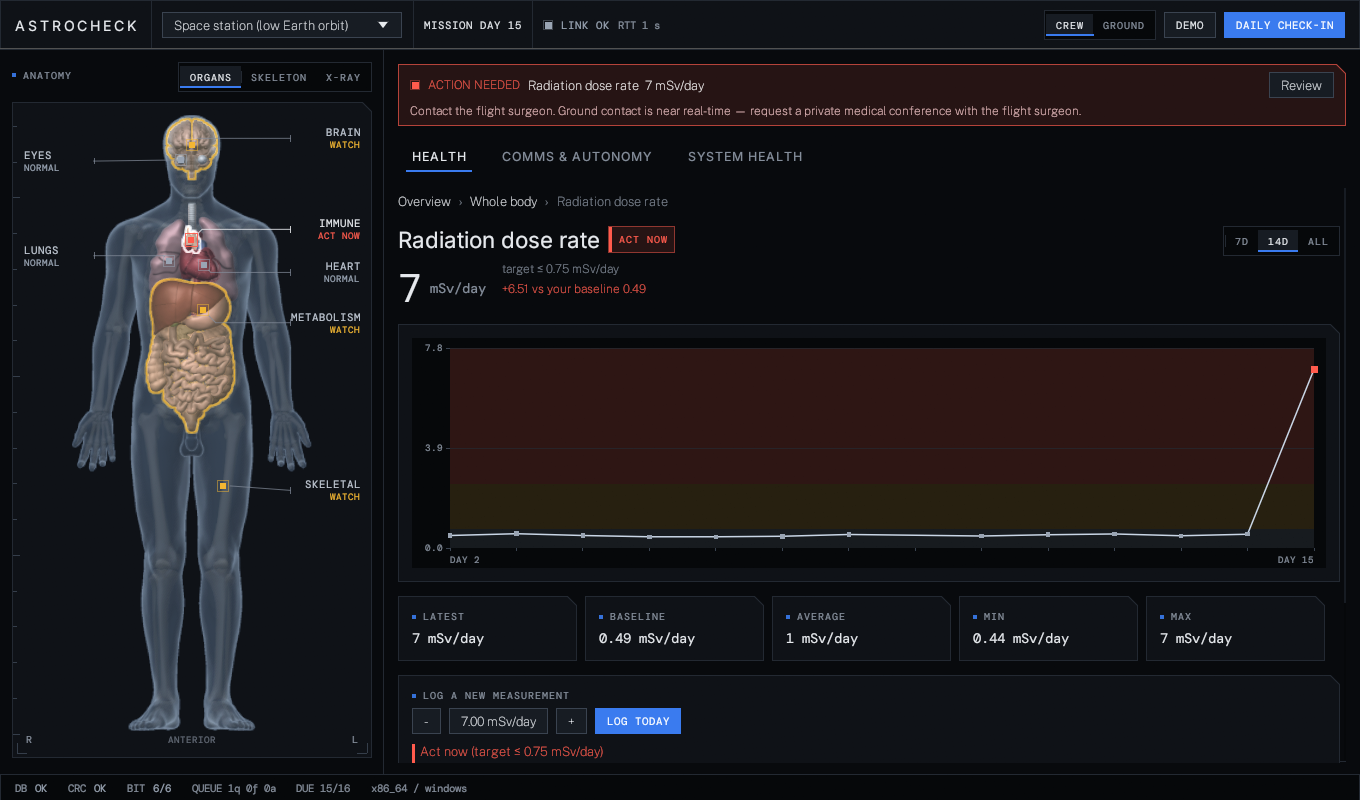
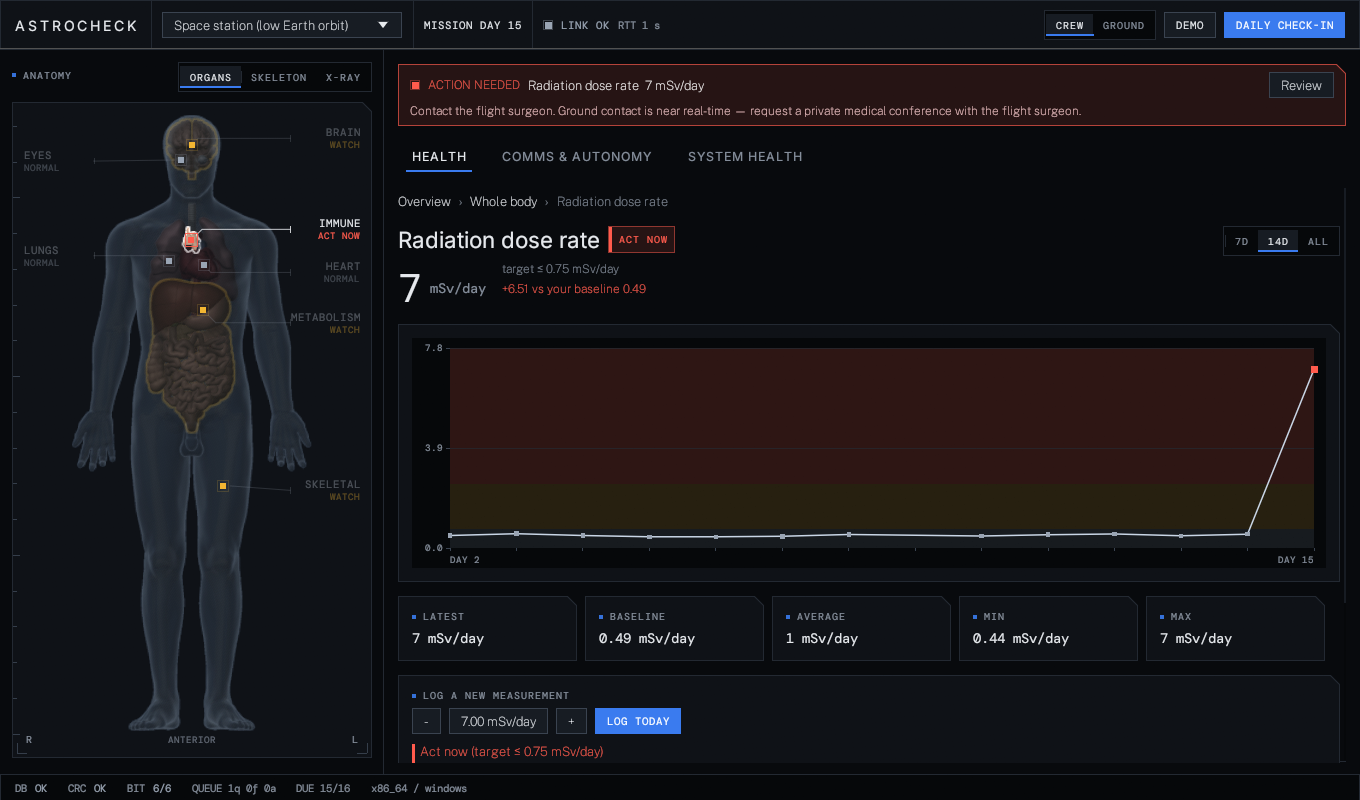
ui: anatomy dims everything but the selected body system
With a selection the other organs, bones and the skin fade to about 30 %
light (animated, 0.18 s); a hovered system comes half back. The selected
layer is drawn on top (bones over organs, an organ over the skeleton).
Selection and hover outlines are 1 texel instead of 2; status outlines of
the other systems and their callouts step back too.

Changed region(s): [[0.0, 0.125, 0.2779, 0.9375], [0.0, 0.1875, 0.0618, 0.2188], [0.2471, 0.1562, 0.2779, 0.1875]]

diff --git a/ui/crates/ui-gui/src/figure.rs b/ui/crates/ui-gui/src/figure.rs
@@ -36,7 +36,10 @@ struct Outline {
     /// the part that sets the pulse (the largest one), its index
     lead: usize,
     cov: Vec<u8>,
+    /// status outline (2 texels)
     tex: Option<TextureHandle>,
+    /// selection / hover outline (1 texel): the dimmed surroundings already make the organ stand out
+    thin: Option<TextureHandle>,
 }
 
 struct Part {
@@ -146,7 +149,7 @@ impl Figure {
         let mut outlines: Vec<Outline> = vec![];
         for p in parts.iter().filter(|p| p.s.layer == 2 && p.s.hit) {
             if !outlines.iter().any(|o| o.sys == p.s.sys) {
-                outlines.push(Outline { sys: p.s.sys, origin: p.origin(), w: 0, h: 0, lead: 0, cov: vec![], tex: None });
+                outlines.push(Outline { sys: p.s.sys, origin: p.origin(), w: 0, h: 0, lead: 0, cov: vec![], tex: None, thin: None });
             }
         }
         for o in outlines.iter_mut() {
@@ -197,9 +200,9 @@ impl Figure {
             p.gpu = Some(Gpu { main: load("main", main), alt: load("alt", alt), mask });
         }
         for o in self.outlines.iter_mut() {
-            let grown = dilate(&o.cov, o.w, o.h, 2);
-            let edge: Vec<Color32> = grown.iter().zip(&o.cov).map(|(&g, &c)| white_a(g.saturating_sub(c))).collect();
-            o.tex = Some(ctx.load_texture(format!("anatomy-outline-{}", o.sys), ColorImage { size: [o.w, o.h], pixels: edge }, opts));
+            let edge = |r: usize| -> Vec<Color32> { dilate(&o.cov, o.w, o.h, r).iter().zip(&o.cov).map(|(&g, &c)| white_a(g.saturating_sub(c))).collect() };
+            o.tex = Some(ctx.load_texture(format!("anatomy-outline-{}", o.sys), ColorImage { size: [o.w, o.h], pixels: edge(2) }, opts));
+            o.thin = Some(ctx.load_texture(format!("anatomy-outline-thin-{}", o.sys), ColorImage { size: [o.w, o.h], pixels: edge(1) }, opts));
         }
     }
 
@@ -237,10 +240,14 @@ impl Figure {
         let breathe = if animate { (0.5 + 0.5 * (time * std::f64::consts::TAU / 4.2).sin()) as f32 } else { 0.0 };
         let alert = if animate { (0.5 + 0.5 * (time * std::f64::consts::TAU / 1.4).sin()) as f32 } else { 0.5 };
 
-        // drawing order for the mode: skin body, the quiet layer, the emphasised layer, then the skin glass
-        let order: [u8; 2] = match mode {
-            Mode::Organs => [1, 2],
-            Mode::Skeleton | Mode::XRay => [2, 1],
+        // drawing order for the mode: skin body, the quiet layer, the emphasised layer, then the skin glass.
+        // A selection in the quiet layer (bones while looking at organs, an organ in the skeleton view) goes on top.
+        let sel_layer = self.parts.iter().filter(|p| p.s.layer != 0 && p.s.sys == selected).map(|p| p.s.layer).max();
+        let order: [u8; 2] = match (sel_layer, mode) {
+            (Some(1), _) => [2, 1],
+            (Some(_), _) => [1, 2],
+            (None, Mode::Organs) => [1, 2],
+            (None, _) => [2, 1],
         };
         let alpha_of = |p: &Part, sel: bool, hov: bool| -> f32 {
             let mut a = Self::layer_alpha(p.s.layer, mode);
@@ -282,6 +289,27 @@ impl Figure {
             ui.ctx().set_cursor_icon(egui::CursorIcon::PointingHand);
         }
 
+        // focus 1 = full light; with a selection the other systems fade to DIM (a hovered one comes half back)
+        const DIM: f32 = 0.28;
+        let ctx = ui.ctx().clone();
+        let any = ctx.animate_bool_with_time(egui::Id::new("figure-any-selected"), !selected.is_empty(), 0.18);
+        let mut focus: Vec<(&'static str, f32)> = vec![];
+        for p in &self.parts {
+            if p.s.layer == 0 || focus.iter().any(|f| f.0 == p.s.sys) {
+                continue;
+            }
+            let target = if selected.is_empty() || p.s.sys == selected {
+                1.0
+            } else if hovered == Some(p.s.sys) {
+                0.65
+            } else {
+                0.0
+            };
+            focus.push((p.s.sys, ctx.animate_value_with_time(egui::Id::new(("figure-focus", p.s.sys)), target, 0.18)));
+        }
+        let focus_of = |sys: &str| focus.iter().find(|f| f.0 == sys).map_or(1.0, |f| f.1);
+        let light_of = |sys: &str| DIM + (1.0 - DIM) * focus_of(sys);
+
         // --- sprites
         let full = Rect::from_min_max(pos2(0.0, 0.0), pos2(1.0, 1.0));
         let place = |p: &Part| -> Rect {
@@ -296,10 +324,16 @@ impl Figure {
             Rect::from_center_size(to_screen(c), vec2(w * s * k, h * s * k))
         };
         let tint = |a: f32| white_a((a.clamp(0.0, 1.0) * 255.0) as u8);
+        // colour x k at opacity a (premultiplied)
+        let lit = |k: f32, a: f32| {
+            let (k, a) = (k.clamp(0.0, 1.0), a.clamp(0.0, 1.0));
+            let v = (k * a * 255.0 + 0.5) as u8;
+            Color32::from_rgba_premultiplied(v, v, v, (a * 255.0 + 0.5) as u8)
+        };
         let xray = mode == Mode::XRay;
         for p in self.parts.iter().filter(|p| p.s.layer == 0) {
             let g = p.gpu.as_ref().unwrap();
-            painter.image(g.main.id(), place(p), full, tint(if xray { 0.75 } else { 1.0 }));
+            painter.image(g.main.id(), place(p), full, lit(1.0 - 0.3 * any, if xray { 0.75 } else { 1.0 }));
         }
         for layer in order {
             for p in self.parts.iter().filter(|p| p.s.layer == layer) {
@@ -311,41 +345,43 @@ impl Figure {
                 }
                 let g = p.gpu.as_ref().unwrap();
                 let r = place(p);
-                painter.image(if xray { g.alt.id() } else { g.main.id() }, r, full, tint(a));
+                let k = light_of(p.s.sys);
+                painter.image(if xray { g.alt.id() } else { g.main.id() }, r, full, lit(k, a));
                 if let Some(m) = &g.mask {
                     // organs carry their status as a light tint; bones stay neutral (their marker shows it)
                     match status_of(p.s.sys) {
                         Status::Watch => {
-                            painter.image(m.id(), r, full, alpha(WARN, 0.12 * a));
+                            painter.image(m.id(), r, full, alpha(WARN, 0.12 * a * k));
                         }
                         Status::Act => {
-                            painter.image(m.id(), r, full, alpha(CRIT, (0.12 + 0.10 * alert) * a));
+                            painter.image(m.id(), r, full, alpha(CRIT, (0.12 + 0.10 * alert) * a * k));
                         }
                         _ => {}
                     }
-                    if sel || hov {
-                        painter.image(m.id(), r, full, alpha(Color32::WHITE, if sel { 0.10 } else { 0.06 } * a));
+                    if sel {
+                        painter.image(m.id(), r, full, alpha(Color32::WHITE, 0.05 * a));
                     }
                 }
             }
         }
         for p in self.parts.iter().filter(|p| p.s.layer == 0) {
             let g = p.gpu.as_ref().unwrap();
-            painter.image(g.alt.id(), place(p), full, tint(1.0));
+            painter.image(g.alt.id(), place(p), full, tint(1.0 - 0.45 * any));
         }
-        // one outline per system: white when selected, otherwise the status colour
+        // one outline per system: thin white when selected / hovered, otherwise the status colour
         for o in &self.outlines {
             let st = status_of(o.sys);
             let sel = o.sys == selected;
             let hov = hovered == Some(o.sys);
-            let col = if sel {
-                alpha(Color32::WHITE, 0.95)
+            let f = 0.25 + 0.75 * focus_of(o.sys);
+            let (col, thin) = if sel {
+                (alpha(Color32::WHITE, 0.95), true)
             } else if hov {
-                alpha(Color32::WHITE, 0.6)
+                (alpha(Color32::WHITE, 0.6), true)
             } else {
                 match st {
-                    Status::Watch => alpha(WARN, 0.9),
-                    Status::Act => alpha(CRIT, 0.6 + 0.4 * alert),
+                    Status::Watch => (alpha(WARN, 0.9 * f), false),
+                    Status::Act => (alpha(CRIT, (0.6 + 0.4 * alert) * f), false),
                     _ => continue,
                 }
             };
@@ -356,7 +392,8 @@ impl Figure {
             let c = lr.center();
             let r = Rect::from_min_size(to_screen(o.origin), vec2(o.w as f32 / TPU * s, o.h as f32 / TPU * s));
             let r = Rect::from_min_max(c + (r.min - c) * k, c + (r.max - c) * k);
-            painter.image(o.tex.as_ref().unwrap().id(), r, full, col);
+            let tex = if thin { o.thin.as_ref() } else { o.tex.as_ref() };
+            painter.image(tex.unwrap().id(), r, full, col);
         }
 
         // --- callouts: square marker on the organ, 45-degree leader, tracked mono label
@@ -374,7 +411,8 @@ impl Figure {
             let run = (edge_x - a.x).abs();
             let diag = (ly - a.y).abs().min((run - 10.0).max(0.0));
             let elbow = pos2(a.x + dir * diag, ly);
-            let lc = if sel || hov { alpha(TXT, 0.85) } else { alpha(MUT, 0.7) };
+            let back = 0.35 + 0.65 * focus_of(c.sys);
+            let lc = if sel || hov { alpha(TXT, 0.85) } else { alpha(MUT, 0.7 * back) };
             // the leader starts at the marker's bracket, not under it
             let d = elbow - a;
             let start = if d.length() > 8.0 { a + d.normalized() * 7.0 } else { a + vec2(dir * 7.0, 0.0) };
@@ -388,19 +426,19 @@ impl Figure {
             // marker: square with a bracket around it
             let pulse = if st == Status::Act { 1.5 * alert } else { 0.0 };
             painter.rect_filled(Rect::from_center_size(a, vec2(6.0, 6.0)), egui::CornerRadius::ZERO, col);
-            painter.rect_stroke(Rect::from_center_size(a, Vec2::splat(11.0 + pulse * 2.0)), egui::CornerRadius::ZERO, stroke(1.0, alpha(col, if sel || hov { 0.9 } else { 0.5 })), egui::StrokeKind::Middle);
+            painter.rect_stroke(Rect::from_center_size(a, Vec2::splat(11.0 + pulse * 2.0)), egui::CornerRadius::ZERO, stroke(1.0, alpha(col, if sel || hov { 0.9 } else { 0.5 * back })), egui::StrokeKind::Middle);
             let (pos, al) = match c.side {
                 Side::Left => (pos2(lr.left(), ly), Align2::LEFT_CENTER),
                 Side::Right => (pos2(lr.right(), ly), Align2::RIGHT_CENTER),
             };
-            let name = egui::RichText::new(c.label.to_uppercase()).font(mono(10.5)).extra_letter_spacing(0.6).color(if sel || hov { TXT } else { Color32::from_rgb(0xc0, 0xc8, 0xd3) });
+            let name = egui::RichText::new(c.label.to_uppercase()).font(mono(10.5)).extra_letter_spacing(0.6).color(if sel || hov { TXT } else { alpha(Color32::from_rgb(0xc0, 0xc8, 0xd3), back) });
             let g = egui::WidgetText::from(name).into_galley(ui, Some(egui::TextWrapMode::Extend), f32::INFINITY, FontId::default());
             let tp = match al {
                 Align2::LEFT_CENTER => pos + vec2(0.0, -6.0 - g.size().y / 2.0),
                 _ => pos + vec2(-g.size().x, -6.0 - g.size().y / 2.0),
             };
             painter.galley(tp, g, TXT);
-            painter.text(pos + vec2(0.0, 7.0), al, st.name().to_uppercase(), mono(9.0), col);
+            painter.text(pos + vec2(0.0, 7.0), al, st.name().to_uppercase(), mono(9.0), if sel || hov { col } else { alpha(col, back) });
         }
 
         if resp.clicked() {
